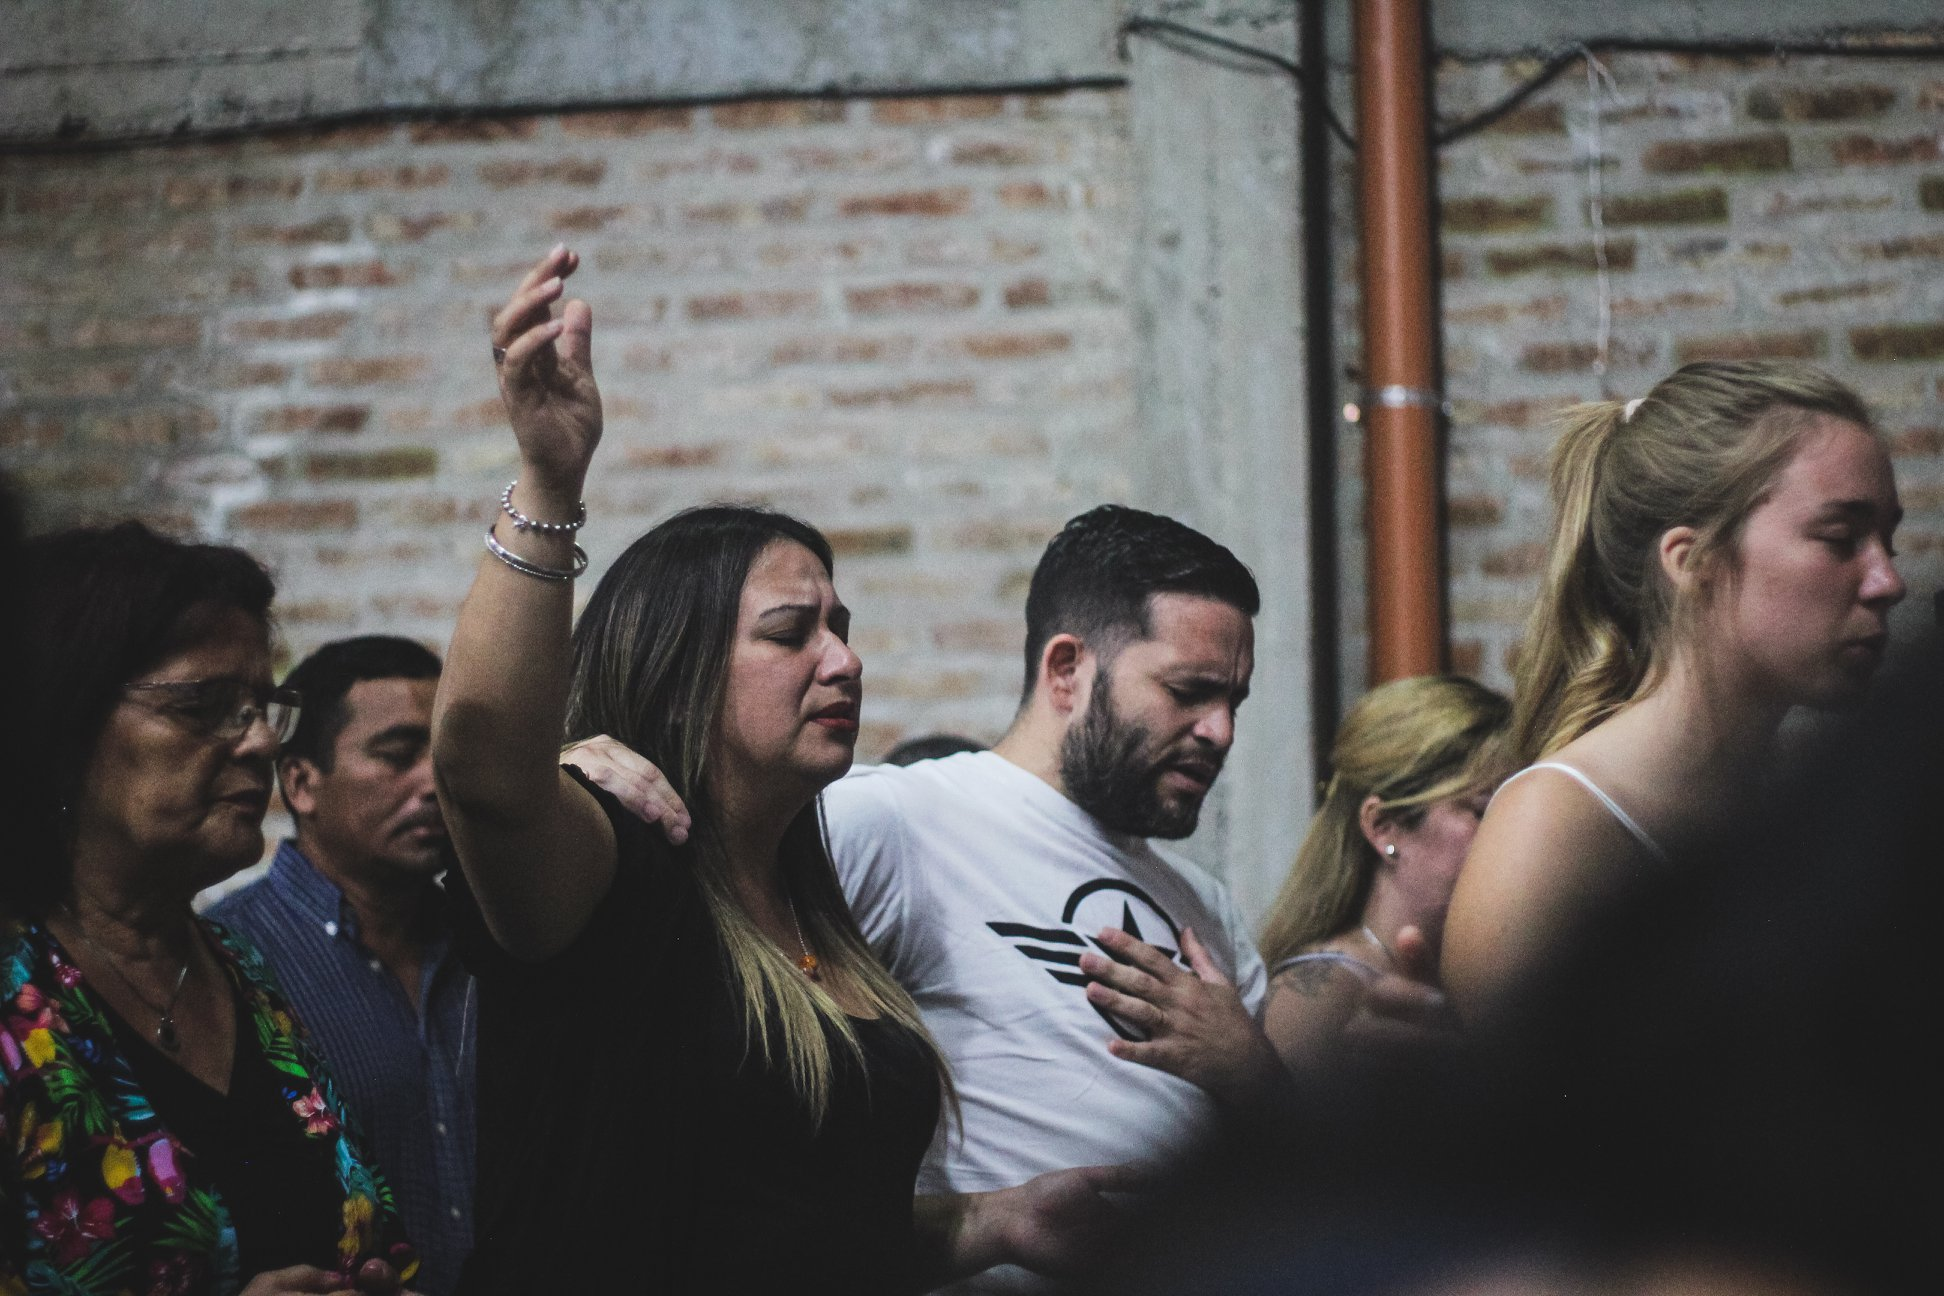
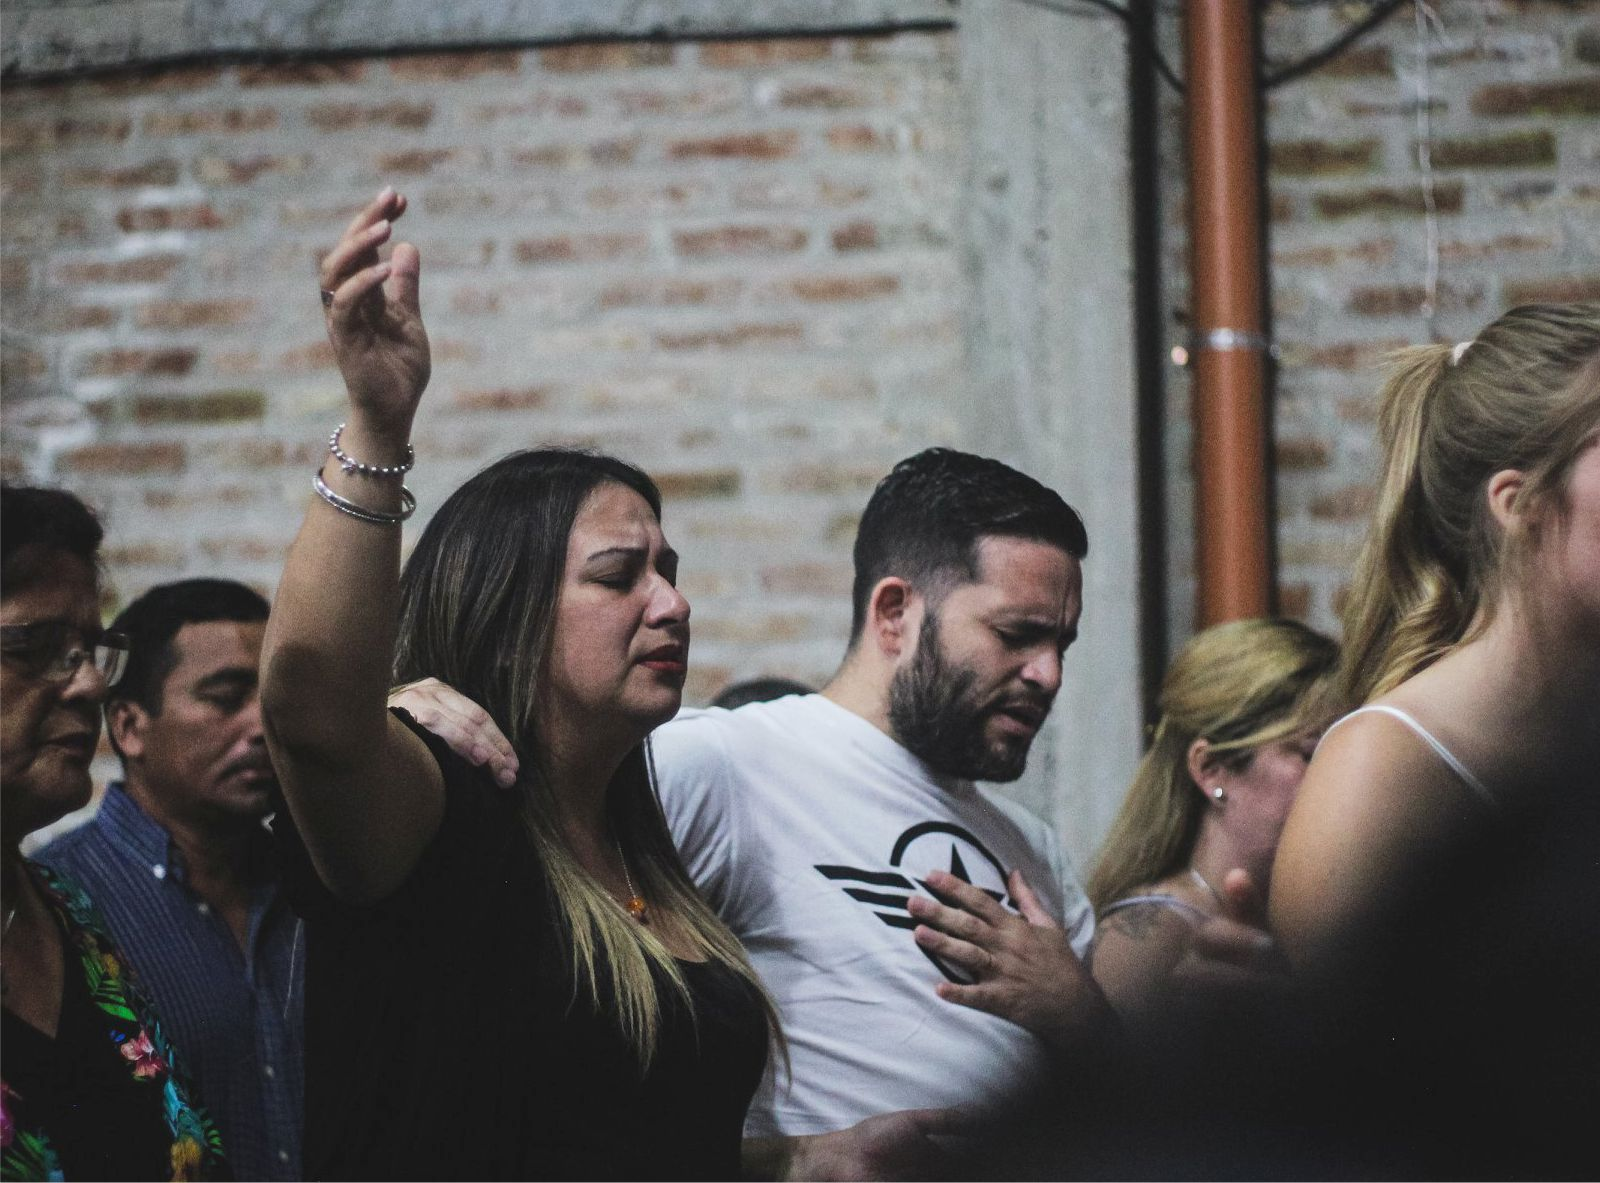
responsive

diff --git a/src/components/card/CardImg.jsx b/src/components/card/CardImg.jsx
@@ -1,11 +1,10 @@
 import React from "react";
-import cardUno from "../../assets/image/cards actividades/card1.jpg";
-import cardDos from "../../assets/image/cards actividades/card2.jpeg";
+import cardUno from "../../assets/image/cards actividades/card7.jpg";
+import cardDos from "../../assets/image/cards actividades/card8.jpg";
 import cardTres from "../../assets/image/cards actividades/card3.jpg";
 import cardCuatro from "../../assets/image/cards actividades/card4.jpg";
 import cardCinco from "../../assets/image/cards actividades/card5.jpg";
-import manos from "../../assets/image/main2.png"
-import TituloWeb from "../TitulosWeb/tituloWeb";
+
 
 function CardActividades() {
   return (
@@ -16,7 +15,7 @@ function CardActividades() {
        {/* card 1 */}
        <div class="max-w-sm rounded-lg border border-gray-200 bg-white shadow dark:border-gray-700 dark:bg-gray-800">
         <a href="#">
-          <img class="rounded-t-lg" src={cardDos} alt="" />
+          <img class="rounded-t-lg contrast-200" src={cardUno} alt="" />
         </a>
         <div class="p-5">
           <a href="#">
@@ -40,7 +39,7 @@ function CardActividades() {
        {/* card 2 */}
        <div class="max-w-sm rounded-lg border border-gray-200 bg-white shadow dark:border-gray-700 dark:bg-gray-800">
         <a href="#">
-          <img class="rounded-t-lg" src={cardDos} alt="" />
+          <img class="rounded-t-lg contrast-200" src={cardDos} alt="" />
         </a>
         <div class="p-5">
           <a href="#">
@@ -64,7 +63,7 @@ function CardActividades() {
        {/* card 3 */}
        <div class="max-w-sm rounded-lg border border-gray-200 bg-white shadow dark:border-gray-700 dark:bg-gray-800">
         <a href="#">
-          <img class="rounded-t-lg" src={cardDos} alt="" />
+          <img class="rounded-t-lg contrast-150" src={cardTres} alt="" />
         </a>
         <div class="p-5">
           <a href="#">
@@ -88,7 +87,7 @@ function CardActividades() {
        {/* card 4 */}
        <div class="max-w-sm rounded-lg border border-gray-200 bg-white shadow dark:border-gray-700 dark:bg-gray-800">
         <a href="#">
-          <img class="rounded-t-lg" src={cardTres} alt="" />
+          <img class="rounded-t-lg contrast-200" src={cardCuatro} alt="" />
         </a>
         <div class="p-5">
           <a href="#">
@@ -112,7 +111,7 @@ function CardActividades() {
        {/* card 5 */}
        <div class="max-w-sm rounded-lg border border-gray-200 bg-white shadow dark:border-gray-700 dark:bg-gray-800">
         <a href="#">
-          <img class="rounded-t-lg" src={cardDos} alt="" />
+          <img class="rounded-t-lg contrast-150" src={cardCinco} alt="" />
         </a>
         <div class="p-5">
           <a href="#">

diff --git a/src/components/Hero/Hero.jsx b/src/components/Hero/Hero.jsx
@@ -8,7 +8,7 @@ import PortadaMobileDos from "../../assets/image/main5.png"
 
 const Hero = () => {
   return (
-    <section className="bg-gradient-to-tr from-yellow-600 to-red-900 relative overflow-hidden">
+    <section className="bg-gradient-to-tr from-yellow-600 to-red-900 relative overflow-hidden contrast-125">
       <img className="md:flex hidden mix-blend-overlay inset-0 w-full object-cover" src={Portada}></img>
 
       <img className="flex mix-blend-overlay inset-0 w-full object-cover md:hidden" src={PortadaMobile}></img>

diff --git a/src/components/Titulo/Titulo.jsx b/src/components/Titulo/Titulo.jsx
@@ -8,7 +8,7 @@ const HeroTitle = () => {
         <h1 className="text-[50px] -mt-3 font-semibold xl:text-[120px] md:text-[60px]">
           EL ENCUENTRO
         </h1>
-        <p className="xl:-m-7 -mt-2 font-light text-1xl md:text-xl xl:text-3xl tracking-[.25em]">
+        <p className="xl:-m-7 -mt-2 font-light text-1xl md:text-xl xl:text-xl xl:tracking-[.6em]">
           Tristán Suárez
         </p>
         <button className="text-md xl:ml-0 md:ml-0  rounded-md md:mt-6 mt-5 xl:mt-14 px-4 py-2 bg-blue-900">
